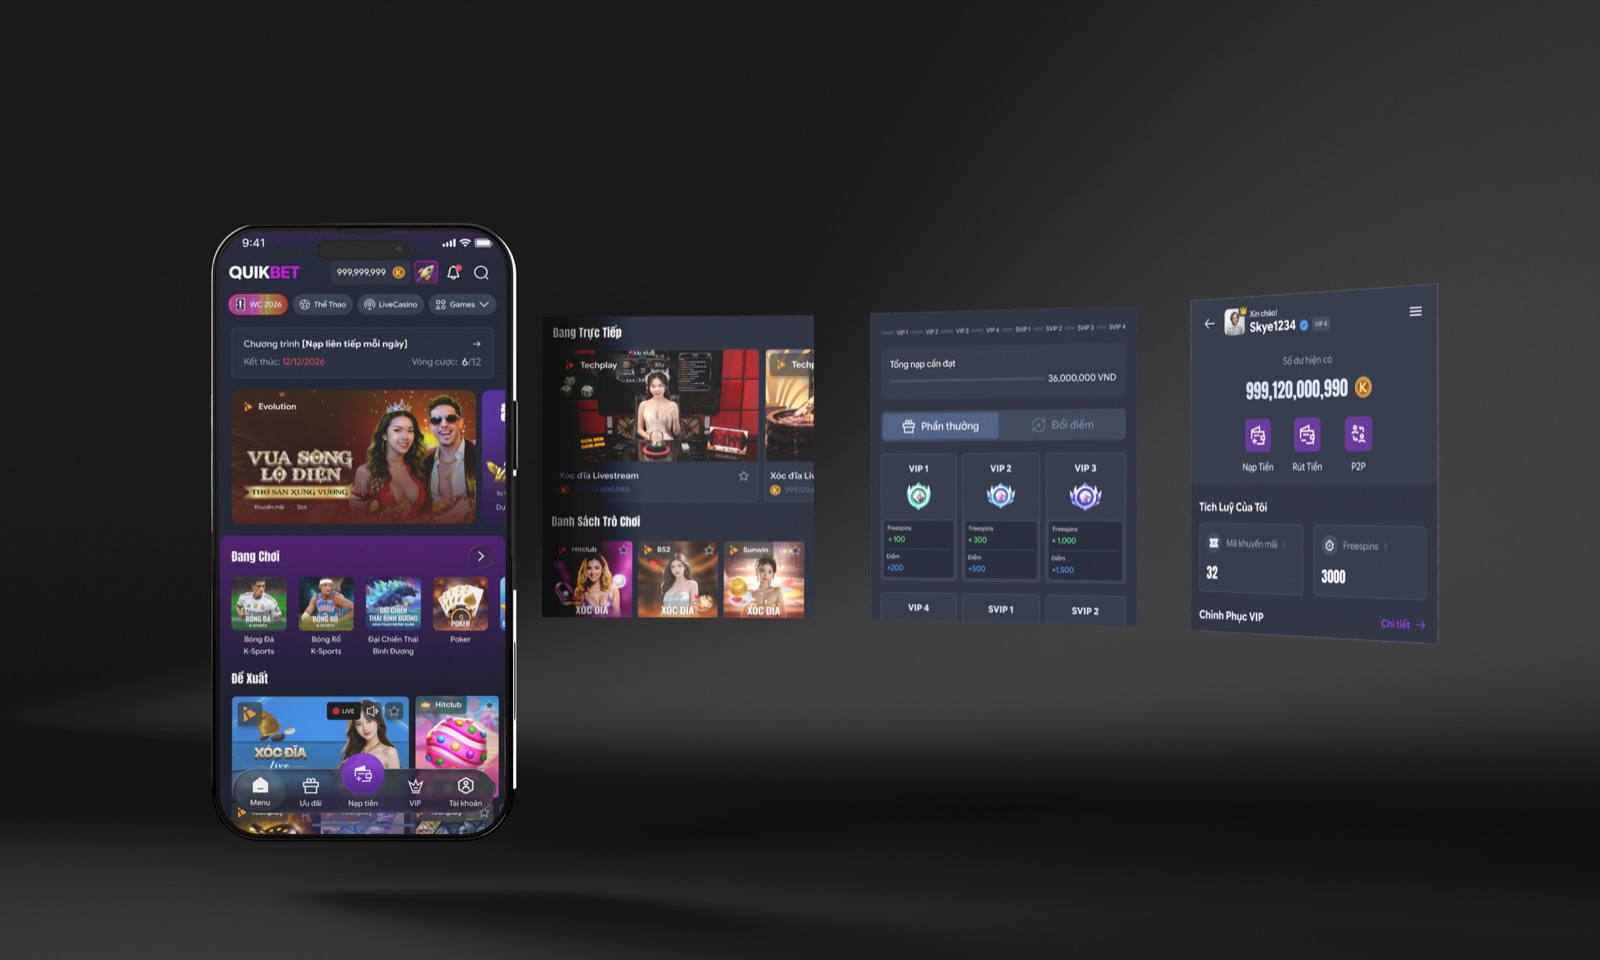
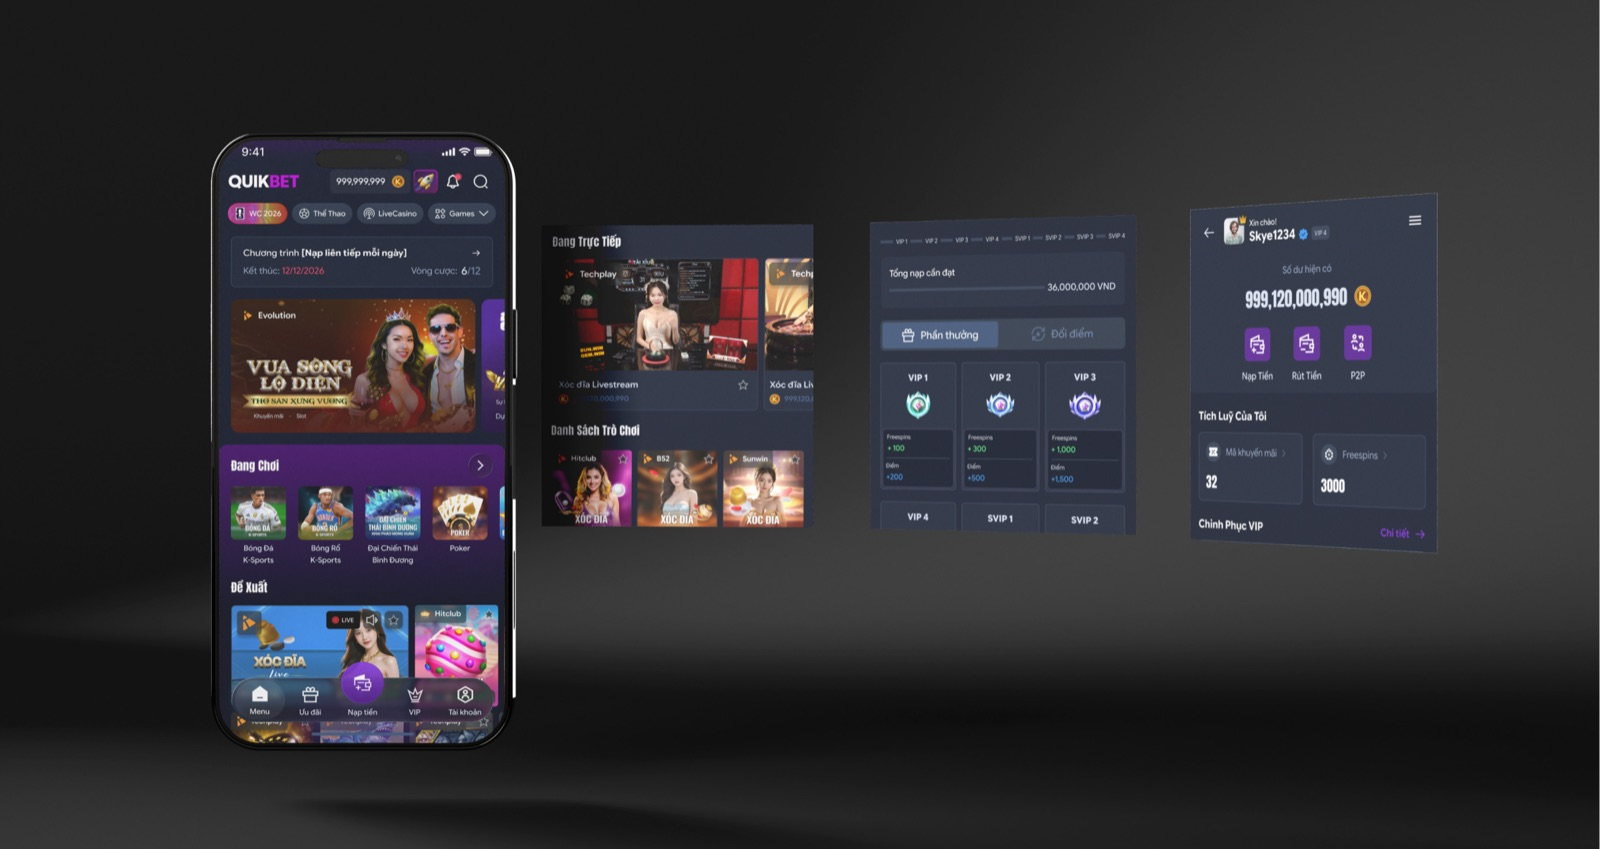
Update iGaming cover image: taller and centered per updated Figma

diff --git a/case-studies/igaming-design-system/index.html b/case-studies/igaming-design-system/index.html
@@ -50,7 +50,7 @@
       </section>
 
       <!-- Cover -->
-      <section class="cs-cover cs-cover--dim">
+      <section class="cs-cover cs-cover--dim cs-cover--tall">
         <img src="images/cover.jpg" alt="QUIKBET mobile app screens showing the home feed, live casino, VIP rewards, and account balance" loading="lazy" />
       </section>
 

diff --git a/css/case-study.css b/css/case-study.css
@@ -87,7 +87,12 @@
   width: 100%;
   border-radius: 8px;
   object-fit: cover;
+  object-position: center;
   aspect-ratio: 1130 / 550;
+}
+
+.cs-cover--tall img {
+  aspect-ratio: 1130 / 600;
 }
 
 .cs-cover--dim {
